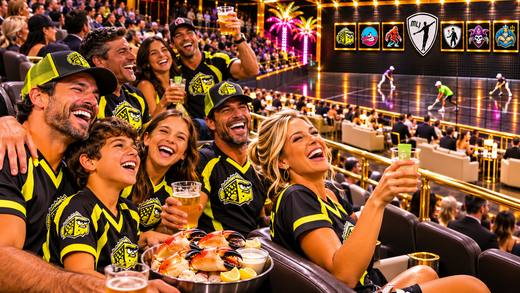
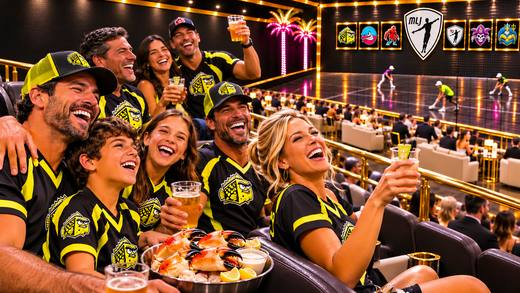
Arena gallery: updated fans-in-team-gear photo
Claude-Session: https://claude.ai/code/session_01RXYkimbn35SjoihCfai7fS

diff --git a/arena.html b/arena.html
@@ -443,8 +443,8 @@ document.getElementById('tourBtn').onclick=startTour; document.getElementById('t
 (function(){ var PH=[["The MLJ Arena on the Intracoastal", "doll"], ["Valet arrival under the porte-cochère", "valet"], ["Welcome to the MLJ Arena", "entry"], ["Food court and The Cesta Bar", "food"], ["Official team gear at the merch store", "merch"], ["The exotic goldfish bar", "goldfish"], ["Exotic goldfish under your cocktail", "goldfish"], ["The shark tank bar", "sharks"], ["A shark under your cocktail", "sharks"], ["Team banners on the side wall", "seats"], ["Fans in team gear in the stadium seats", "seats"], ["VIP couches, courtside", "vip"], ["The best seat in the house", "vip"], ["Bottle service in the VIP", "vip"], ["The VIP section and the stands", "vip"], ["Match night on the court", "court"], ["Full stretch for the pelota", "court"], ["The Peloteros and the Squared Groupers", "court"]], SPOTPIC={entry:2,doors:2,food:3,merch:4,goldfish:5,sharks:7,seats:10,vip:11,court:15,valet:1,vpark:1,lot:0,marina:0},
   gal=document.getElementById('gal'), grid=document.getElementById('galGrid'), big=document.getElementById('galBig'), img=document.getElementById('galImg'), cap=document.getElementById('galCap'), chip=document.getElementById('spotPic'), cur=0, built=false;
   function n2(i){ return (i<9?'0':'')+(i+1); }
-  function show(i){ cur=(i+PH.length)%PH.length; img.src='arena-photo-'+n2(cur)+'.jpg?v=2'; img.alt=PH[cur][0]; cap.textContent=(cur+1)+' / '+PH.length+'  ·  '+PH[cur][0]; big.hidden=false; }
-  function build(){ if(built) return; built=true; PH.forEach(function(c,i){ var f=document.createElement('figure'), im=document.createElement('img'), fc=document.createElement('figcaption'); im.loading='lazy'; im.src='arena-thumb-'+n2(i)+'.jpg?v=2'; im.alt=c[0]; fc.textContent=c[0]; f.appendChild(im); f.appendChild(fc); f.onclick=function(){ show(i); }; grid.appendChild(f); }); }
+  function show(i){ cur=(i+PH.length)%PH.length; img.src='arena-photo-'+n2(cur)+'.jpg?v=3'; img.alt=PH[cur][0]; cap.textContent=(cur+1)+' / '+PH.length+'  ·  '+PH[cur][0]; big.hidden=false; }
+  function build(){ if(built) return; built=true; PH.forEach(function(c,i){ var f=document.createElement('figure'), im=document.createElement('img'), fc=document.createElement('figcaption'); im.loading='lazy'; im.src='arena-thumb-'+n2(i)+'.jpg?v=3'; im.alt=c[0]; fc.textContent=c[0]; f.appendChild(im); f.appendChild(fc); f.onclick=function(){ show(i); }; grid.appendChild(f); }); }
   document.getElementById('galBtn').onclick=function(){ build(); gal.hidden=false; gal.scrollTop=0; };
   document.getElementById('galX').onclick=function(){ gal.hidden=true; }; document.getElementById('galBack').onclick=function(){ big.hidden=true; };
   document.getElementById('galPrev').onclick=function(){ show(cur-1); }; document.getElementById('galNext').onclick=function(){ show(cur+1); };
@@ -452,7 +452,7 @@ document.getElementById('tourBtn').onclick=startTour; document.getElementById('t
   var sx=null; big.addEventListener('touchstart',function(e){ sx=e.touches[0].clientX; },{passive:true}); big.addEventListener('touchend',function(e){ if(sx===null) return; var d=e.changedTouches[0].clientX-sx; sx=null; if(Math.abs(d)>50) show(cur+(d<0?1:-1)); });
   addEventListener('keydown',function(e){ if(big.hidden) return; if(e.key==='ArrowRight') show(cur+1); else if(e.key==='ArrowLeft') show(cur-1); else if(e.key==='Escape') big.hidden=true; });
   /* each Go-to stop is paired with its photo: a small card that opens the picture */
-  var chipI=0; window.spotPhoto=function(k){ var i=k==null?undefined:SPOTPIC[k]; if(i===undefined){ chip.hidden=true; return; } chipI=i; document.getElementById('spotImg').src='arena-thumb-'+n2(i)+'.jpg?v=2'; document.getElementById('spotCap').textContent=PH[i][0]; chip.hidden=false; };
+  var chipI=0; window.spotPhoto=function(k){ var i=k==null?undefined:SPOTPIC[k]; if(i===undefined){ chip.hidden=true; return; } chipI=i; document.getElementById('spotImg').src='arena-thumb-'+n2(i)+'.jpg?v=3'; document.getElementById('spotCap').textContent=PH[i][0]; chip.hidden=false; };
   document.getElementById('spotOpen').onclick=function(){ show(chipI); }; document.getElementById('spotX').onclick=function(e){ e.stopPropagation(); chip.hidden=true; }; })();
 function goSpot(k){ var s=SPOTS[k]; if(!s) return; pos.x=s[0]; pos.z=s[1]; yaw=s[2]; pitch=-0.05; setMode('walk'); spotPhoto(k); }
 started=true;
